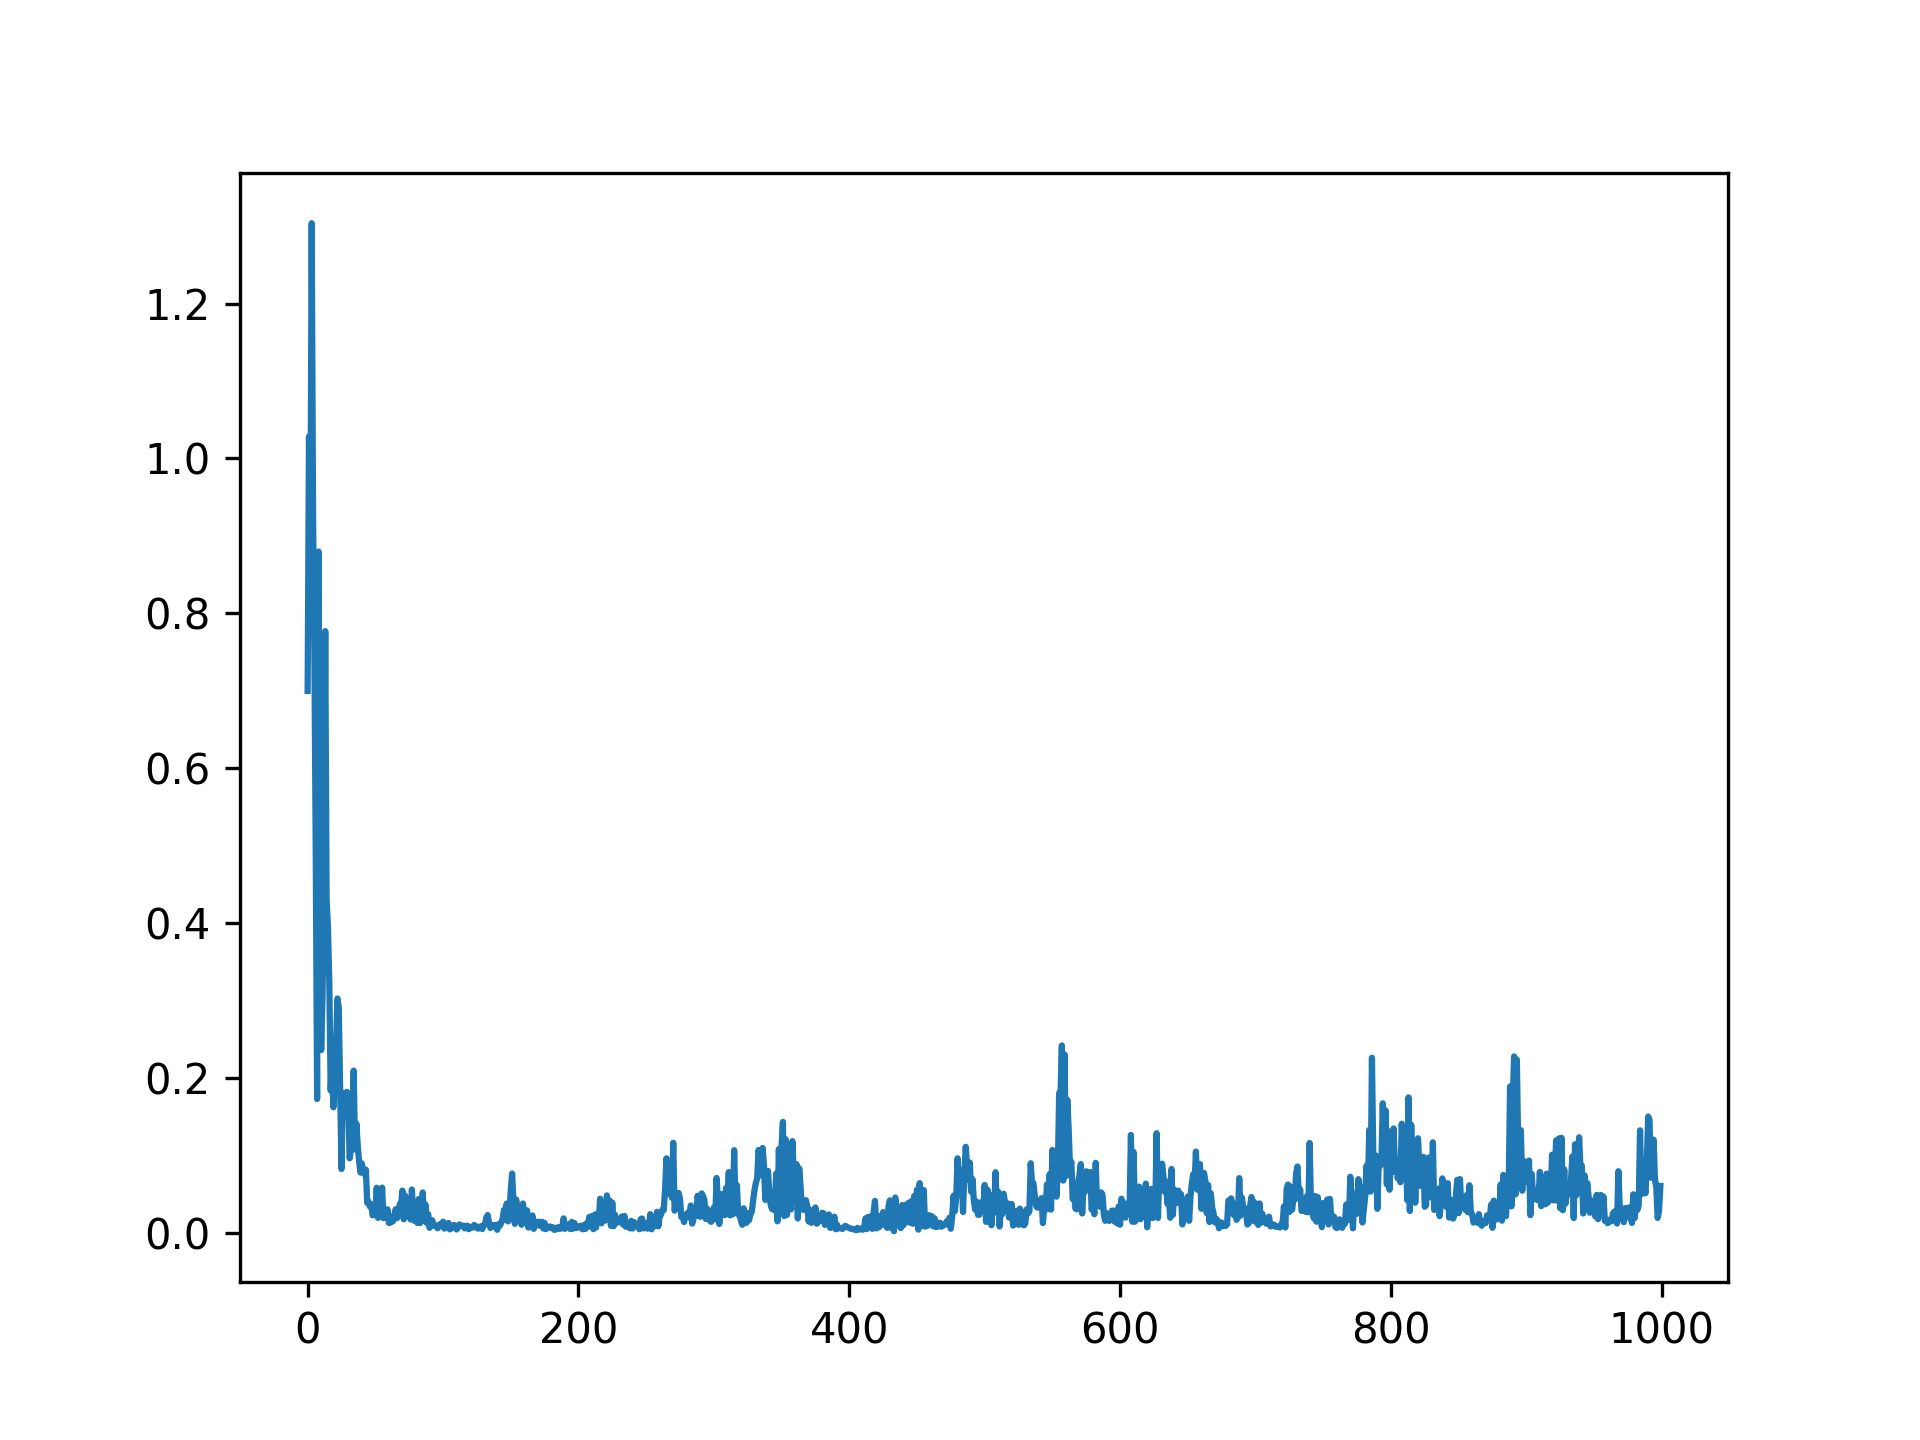
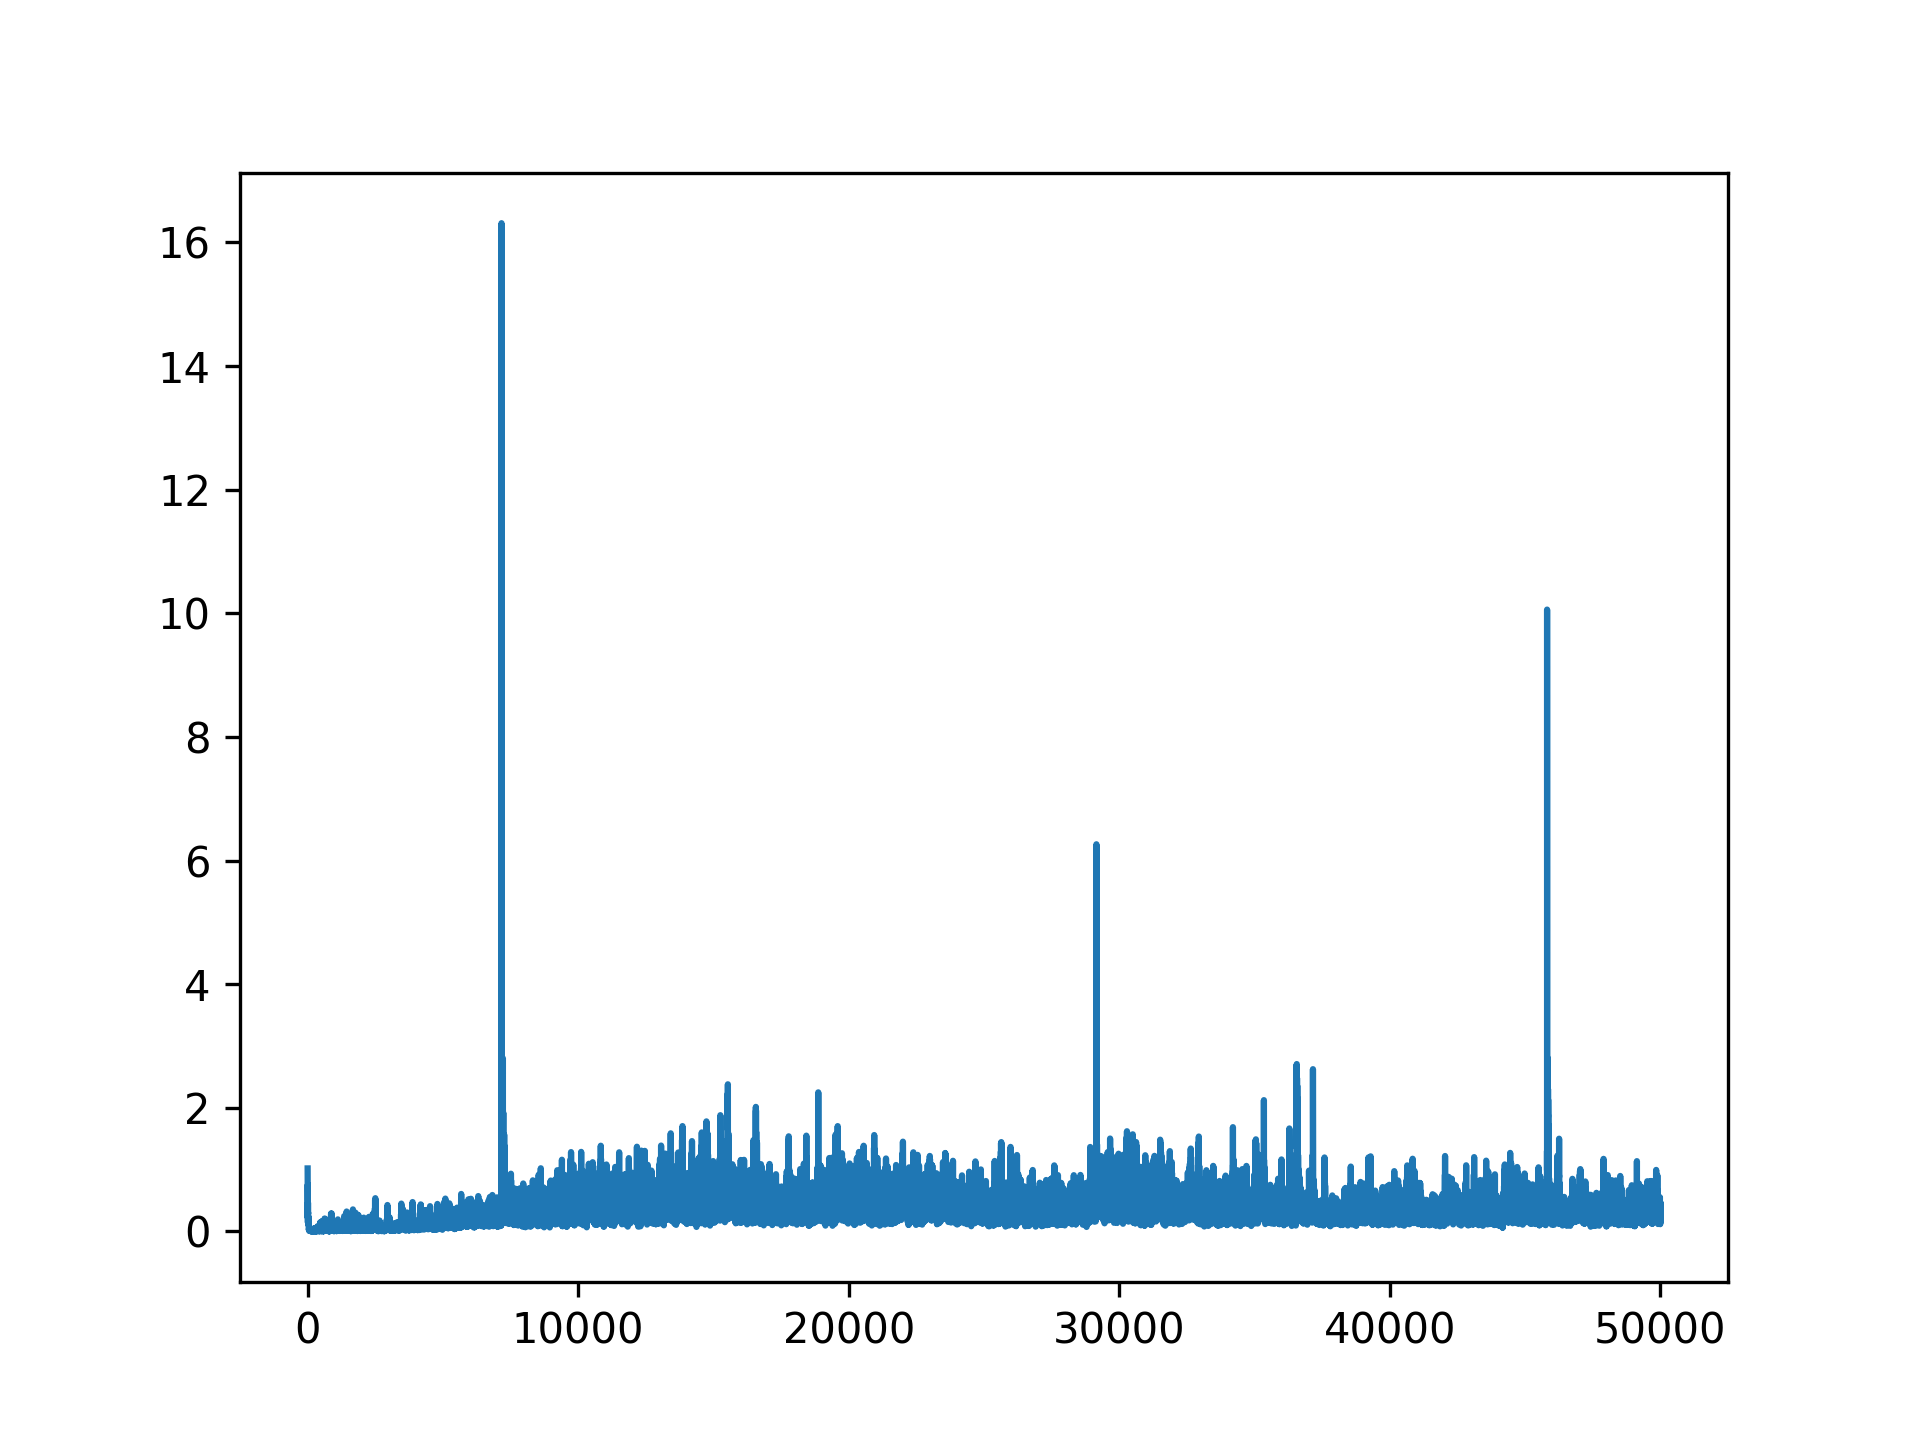
relplicated value function learning

diff --git a/scripts/ddpg/finetune.py b/scripts/ddpg/finetune.py
@@ -50,7 +50,7 @@ def make_update_value(policy: Policy, step: Callable, cost: Callable, normalize:
     # batch_cost = jax.jit(jax.vmap(cost))
     batch_normalize = jax.jit(jax.vmap(normalize))
 
-    # @nnx.jit
+    @nnx.jit
     def update_value(value: Value, target_value: Value, value_opt: nnx.Optimizer, batch: tuple):
 
         x, u, c, t, x_next = batch
@@ -97,14 +97,14 @@ if __name__ == '__main__':
     tau = 0.005
 
     ## buffer parameters
-    iterations = 10
+    iterations = 100
     num_env = 1000
     episode_len = 400
     buffer_len = iterations * num_env * episode_len
     print(f'Buffer Length = {buffer_len}')
 
     ## can change this sampling batch size
-    batch_size = 256
+    batch_size = 1024
 
     ## instantiating the buffer
     buffer = fbx.make_flat_buffer(
@@ -154,7 +154,7 @@ if __name__ == '__main__':
     update_value = make_update_value(policy, step, pendulum_cost, normalize_pendulum_state, gamma)
 
     loss_hist = []
-    for i in range(1000):
+    for i in range(50000):
         key, subkey = jax.random.split(key)
 
         data = buffer.sample(buffer_state, subkey)

diff --git a/scripts/ddpg/generate_data.py b/scripts/ddpg/generate_data.py
@@ -79,7 +79,7 @@ if __name__ == '__main__':
     key = jax.random.PRNGKey(seed)
 
     ## buffer parameters
-    iterations = 10
+    iterations = 100
     num_env = 1000
     episode_len = 400
     buffer_len = iterations * num_env * episode_len
@@ -147,7 +147,7 @@ if __name__ == '__main__':
     for _ in range(iterations):
         key, subkey = jax.random.split(key)
         ## initialize a random batch of states
-        batch_key = jax.random.split(key, num_env)
+        batch_key = jax.random.split(subkey, num_env)
         x = batch_init_state(batch_key)
 
         done = jnp.zeros((num_env, 1), dtype = jnp.bool)
